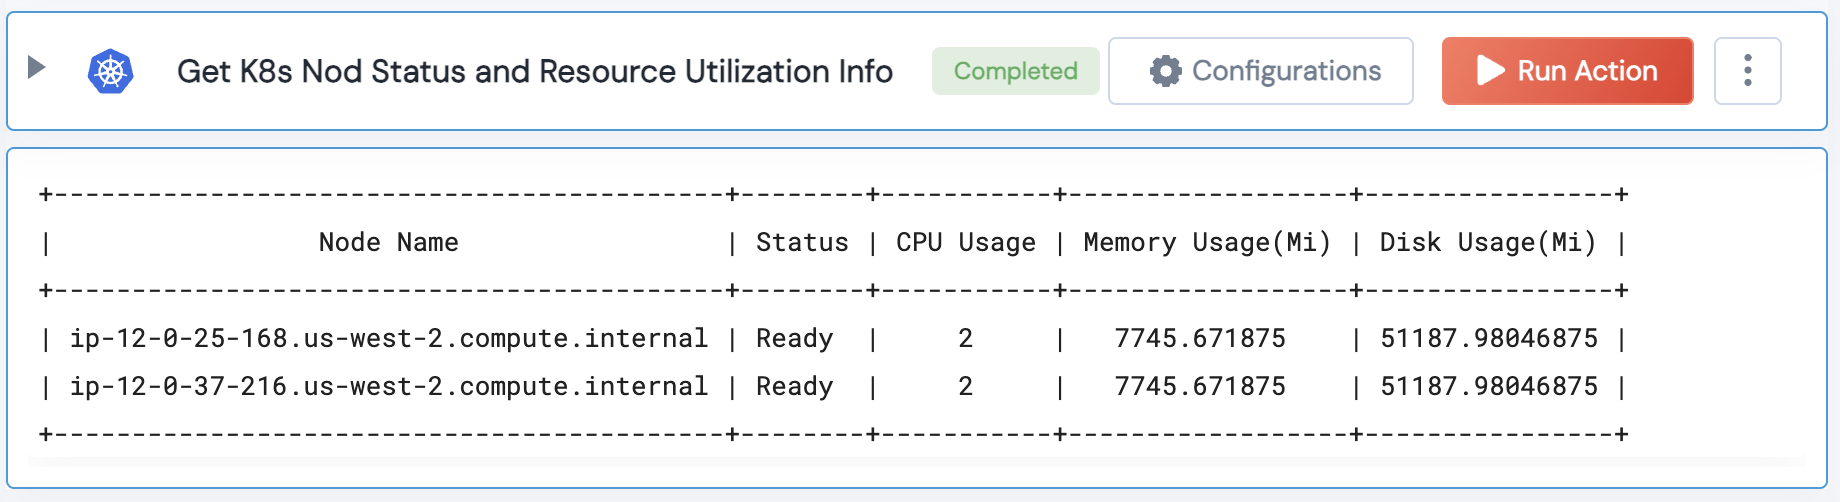
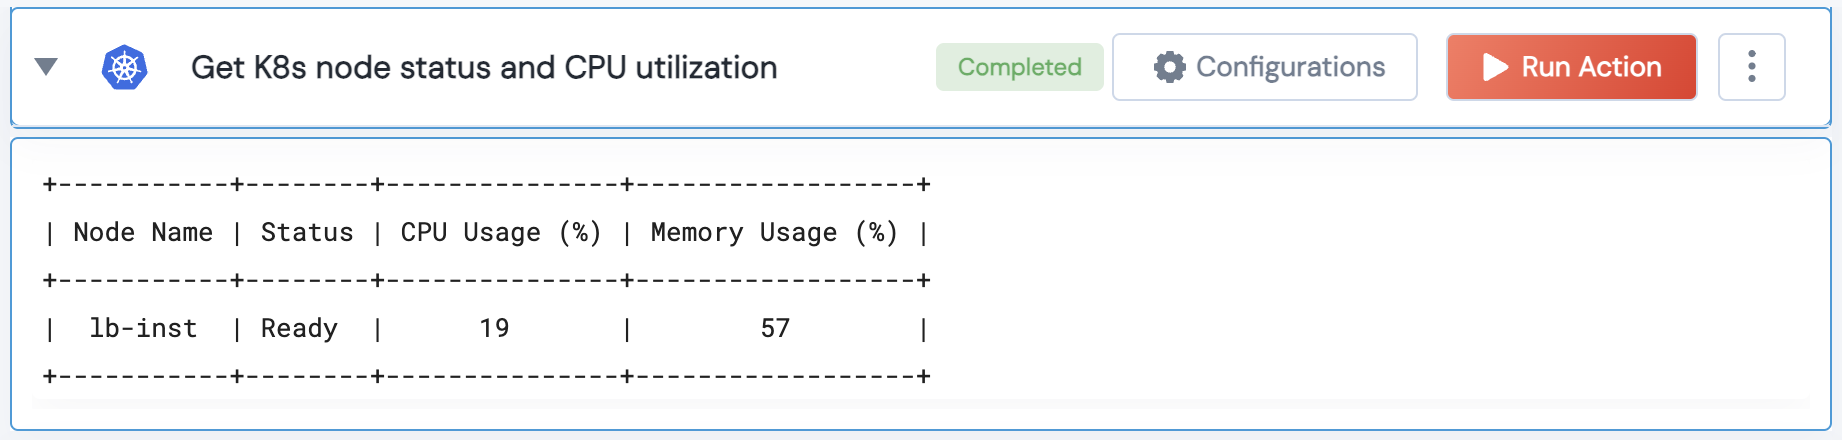
Update Node CPU utilzation info

diff --git a/Kubernetes/legos/k8s_get_node_status_and_resource_utilization/k8s_get_node_status_and_resource_utilization.py b/Kubernetes/legos/k8s_get_node_status_and_resource_utilization/k8s_get_node_status_and_resource_utilization.py
@@ -13,32 +13,29 @@ class InputSchema(BaseModel):
     pass
 
 
-
-
 def k8s_get_node_status_and_resource_utilization_printer(output):
     if not output:
         print("No Data to Display")
     else:
-        headers = ['Node Name', 'Status', 'CPU Usage', 'Memory Usage(Mi)', 'Disk Usage(Mi)']
+        headers = ['Node Name', 'Status', 'CPU Usage (%)', 'Memory Usage (%)']
         print(tabulate(output, headers, tablefmt='pretty'))
 
 
-def k8s_get_node_status_and_resource_utilization(handle)-> List:
-    """k8s_get_node_status_and_resource_utilization fetches resource utilization on nodes
-
-        :type handle: object
-        :param handle: Object returned from the Task validate method
-
-        :rtype: Node information, and resource utiliation information
-    """
+def k8s_get_node_status_and_resource_utilization(handle) -> List:
     if handle.client_side_validation is not True:
         print(f"K8S Connector is invalid: {handle}")
-        return False, "Invalid Handle"
+        return []
 
-    # Create the kubectl command for fetching node status
+    # Command to fetch node resource utilization
+    node_utilization_cmd = "kubectl top nodes --no-headers"
+    node_utilization = handle.run_native_cmd(node_utilization_cmd)
+    if node_utilization.stderr:
+        raise ApiException(f"Error occurred while executing command {node_utilization_cmd} {node_utilization.stderr}")
+
+    utilization_lines = node_utilization.stdout.split('\n')
+
+    # Command to fetch node status
     node_status_cmd = "kubectl get nodes -o json"
-
-    # Execute the kubectl command for fetching node status
     node_status = handle.run_native_cmd(node_status_cmd)
     if node_status.stderr:
         raise ApiException(f"Error occurred while executing command {node_status_cmd} {node_status.stderr}")
@@ -46,16 +43,13 @@ def k8s_get_node_status_and_resource_utilization(handle)-> List:
     nodes_info = json.loads(node_status.stdout)
 
     data = []
-    for item in nodes_info['items']:
+    for item, utilization_line in zip(nodes_info['items'], utilization_lines):
         node_name = item['metadata']['name']
-        # Get the latest status by considering the last condition in the list
         node_status = item['status']['conditions'][-1]['type']
-        cpu_usage = item['status']['capacity']['cpu']
-        memory_usage = int(item['status']['capacity']['memory'].rstrip('Ki')) / 1024  # if in KiB
-        disk_usage = int(item['status']['capacity']['ephemeral-storage'].rstrip('Ki')) / 1024  # if in KiB
+        utilization_parts = utilization_line.split()
+        cpu_usage_percent = utilization_parts[2].rstrip('%')
+        memory_usage_percent = utilization_parts[4].rstrip('%')
 
-        data.append([node_name, node_status, cpu_usage, memory_usage, disk_usage])  # Add disk_usage if available.
+        data.append([node_name, node_status, cpu_usage_percent, memory_usage_percent])
 
     return data
-
-

diff --git a/Kubernetes/legos/k8s_get_node_status_and_resource_utilization/README.md b/Kubernetes/legos/k8s_get_node_status_and_resource_utilization/README.md
@@ -3,7 +3,7 @@
 <h1>Get K8s Nod Status and Resource Utilization Info</h1>
 
 ## Description
-This action gathers Kubernetes node status and resource utilization information.
+This action gathers Kubernetes node status and CPU utilization information.
 
 ## Lego Details
 	k8s_get_node_status_and_resource_utilization(handle)
